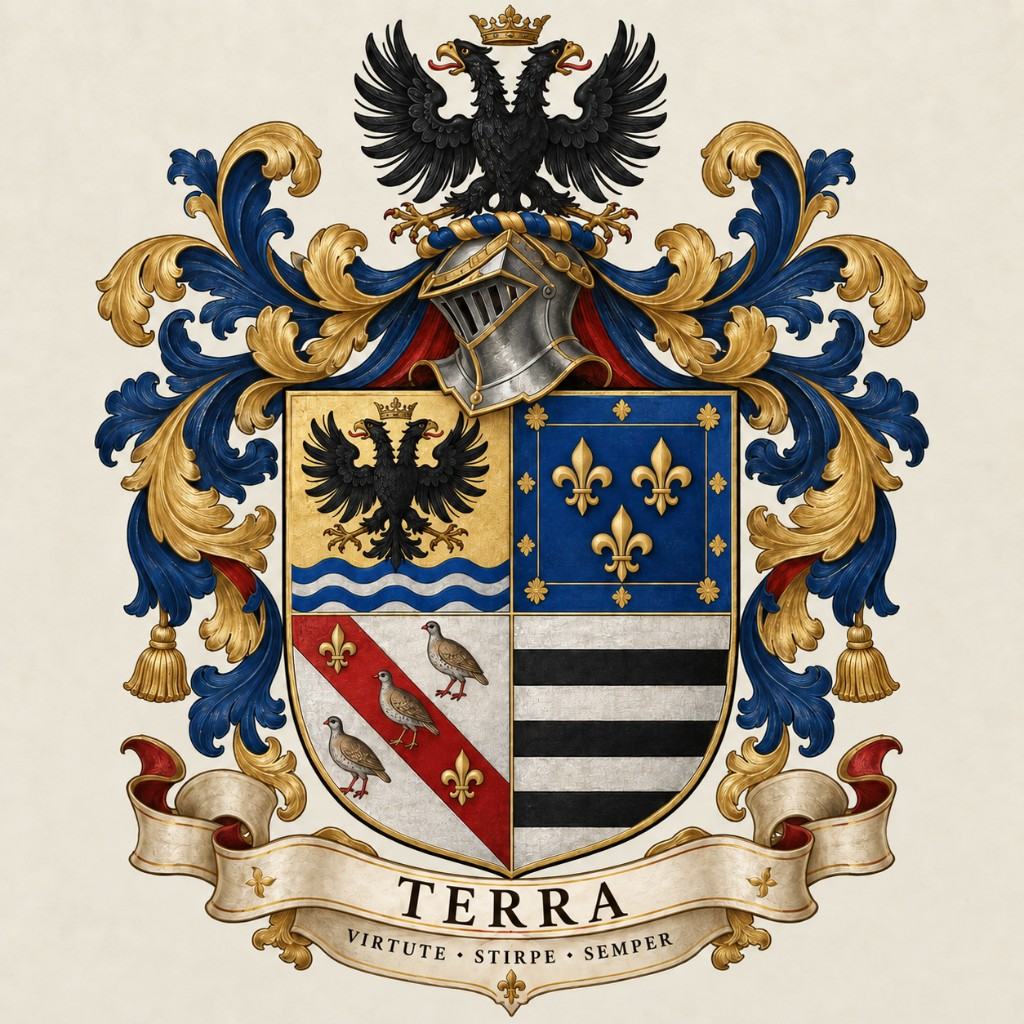
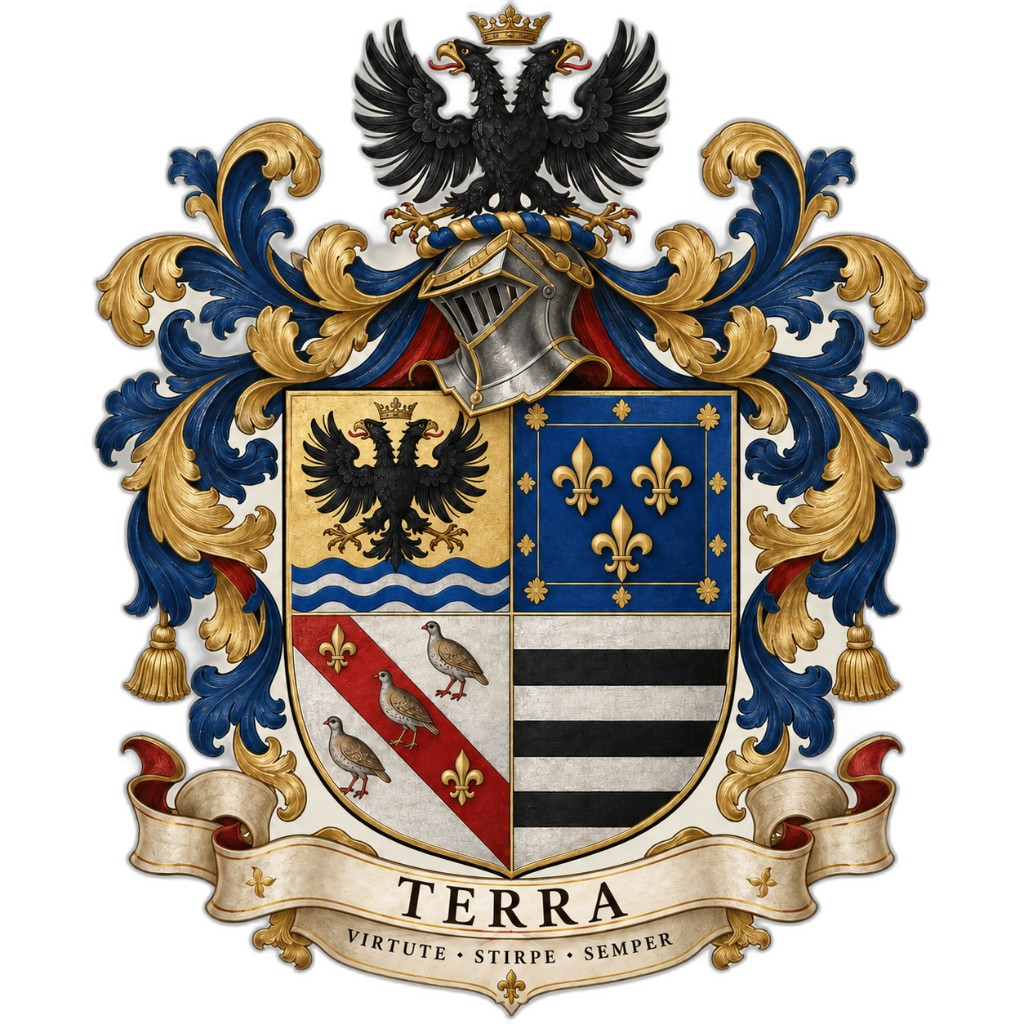
feat: adicionar versao transparente do brasao terra em png e webp

diff --git a/src/components/Hero.tsx b/src/components/Hero.tsx
@@ -1,4 +1,4 @@
-import { FIGURES, IDENTITY, ROLES } from '../content'
+import { FIGURES, IDENTITY } from '../content'
 import { CountUp } from './CountUp'
 import { Stack } from './Stack'
 
@@ -10,36 +10,22 @@ export function Hero() {
       <div className="shell hero-in">
         <div className="hero-cols">
           <div className="hero-left">
-            {/* Topo do Hero com Emblema e Foto Pessoal */}
-            <div className="hero-identity-header">
-              <div className="hero-emblem-badge" title="Emblema heráldico Terra">
+            <div className="byline">
+              <picture>
+                <source srcSet={IDENTITY.portraitWebp} type="image/webp" />
                 <img
-                  className="emblem-thumb"
-                  src={IDENTITY.emblem.src}
-                  alt={IDENTITY.emblem.alt}
-                  width={84}
-                  height={100}
+                  className="ph"
+                  src={IDENTITY.portrait}
+                  alt={IDENTITY.portraitAlt}
+                  width={76}
+                  height={76}
                   decoding="async"
                 />
-              </div>
-
-              <div className="byline">
-                <picture>
-                  <source srcSet={IDENTITY.portraitWebp} type="image/webp" />
-                  <img
-                    className="ph"
-                    src={IDENTITY.portrait}
-                    alt={IDENTITY.portraitAlt}
-                    width={76}
-                    height={76}
-                    decoding="async"
-                  />
-                </picture>
-                <div className="who">
-                  <b>{IDENTITY.name}</b>
-                  <span className="who-title">{IDENTITY.title}</span>
-                  <p className="eyebrow">{IDENTITY.eyebrow}</p>
-                </div>
+              </picture>
+              <div className="who">
+                <b>{IDENTITY.name}</b>
+                <span className="who-title">{IDENTITY.title}</span>
+                <p className="eyebrow">{IDENTITY.eyebrow}</p>
               </div>
             </div>
 
@@ -57,34 +43,15 @@ export function Hero() {
               <a className="hero-cta-btn primary" href="#grupo">
                 Conhecer o ecossistema →
               </a>
-              <a className="hero-cta-btn" href="#trajetoria">
-                Minha trajetória
-              </a>
               <a className="hero-cta-btn" href="#produtos">
                 Ventures & produtos
+              </a>
+              <a className="hero-cta-btn" href="#trajetoria">
+                Trajetória
               </a>
             </div>
 
             <p className="hero-who">{IDENTITY.who}</p>
-
-            <div className="roles">
-              {ROLES.map((item) => (
-                <div key={item.org}>
-                  <b>
-                    {item.href ? (
-                      <a href={item.href} target="_blank" rel="noopener">
-                        {item.org}
-                      </a>
-                    ) : (
-                      item.org
-                    )}
-                  </b>
-                  <span>
-                    <i>{item.role}.</i> {item.text}
-                  </span>
-                </div>
-              ))}
-            </div>
           </div>
 
           <Stack />

diff --git a/src/index.css b/src/index.css
@@ -217,34 +217,8 @@ section[id],header[id]{scroll-margin-top:60px}
   background:radial-gradient(760px 380px at 8% -6%,var(--ochre-soft),transparent 66%)}
 .hero-in{position:relative;padding:clamp(40px,5.5vw,72px) 0 clamp(40px,5vw,60px);display:grid;gap:clamp(30px,4vw,44px)}
 
-.hero-identity-header{
-  display:flex;align-items:center;gap:20px;margin-bottom:4px;
-}
-.hero-emblem-badge{
-  flex:0 0 auto;
-  display:grid;place-items:center;
-  padding:6px 10px;
-  border-radius:12px;
-  border:1px solid color-mix(in srgb, var(--gold) 35%, var(--rule));
-  background:color-mix(in srgb, var(--gold-soft) 40%, var(--raise));
-  box-shadow:0 4px 16px -4px var(--gold-glow);
-  transition:transform .2s ease, border-color .2s ease, box-shadow .2s ease;
-}
-.hero-emblem-badge:hover{
-  transform:translateY(-1px) scale(1.02);
-  border-color:var(--gold);
-  box-shadow:0 6px 20px -3px var(--gold-glow);
-}
-.emblem-thumb{
-  display:block;
-  width:clamp(65px, 6vw, 84px);
-  height:auto;
-  object-fit:contain;
-  filter:drop-shadow(0 2px 6px rgba(0,0,0,.25));
-}
-
 h1{font-size:clamp(2.3rem,6.8vw,4.2rem);line-height:1.02;font-weight:800;letter-spacing:-.03em}
-.hero-thesis{font-size:clamp(1.125rem,2.1vw,1.45rem);line-height:1.45;color:var(--ink);max-width:38ch;
+.hero-thesis{font-size:clamp(1.125rem,2.1vw,1.45rem);line-height:1.45;color:var(--ink);max-width:42ch;
   font-family:var(--body);font-weight:400}
 .hero-thesis em{font-style:italic;color:var(--ochre-ink)}
 .hero-cols{display:grid;grid-template-columns:1fr;gap:32px}
@@ -256,7 +230,7 @@ h1{font-size:clamp(2.3rem,6.8vw,4.2rem);line-height:1.02;font-weight:800;letter-
 .byline .ph{display:block;width:72px;height:72px;border-radius:50%;object-fit:cover;
   object-position:50% 22%;background:var(--sink)}
 .byline .who{display:grid;gap:3px;min-width:0}
-.byline .who b{font:700 1.1rem/1.2 var(--display);letter-spacing:-.022em;color:var(--ink)}
+.byline .who b{font:700 1.15rem/1.2 var(--display);letter-spacing:-.022em;color:var(--ink)}
 .byline .who-title{font:600 12.5px/1.35 var(--mono);color:var(--ochre)}
 
 .hero-ctas{display:flex;flex-wrap:wrap;gap:10px;padding-top:4px}
@@ -381,9 +355,6 @@ h1{font-size:clamp(2.3rem,6.8vw,4.2rem);line-height:1.02;font-weight:800;letter-
   .tbtn{width:28px;height:28px}
 
   .hero-in{padding:clamp(28px,5vw,40px) 0;gap:22px}
-  .hero-identity-header{gap:14px}
-  .hero-emblem-badge{padding:4px 8px}
-  .emblem-thumb{width:60px}
   h1{font-size:clamp(2rem,8.2vw,2.55rem);line-height:1.06;letter-spacing:-.035em}
   .hero-thesis{font-size:1.0625rem;line-height:1.45;max-width:100%}
   .hero-cols{gap:24px}

diff --git a/src/components/Legacy.tsx b/src/components/Legacy.tsx
@@ -16,6 +16,7 @@ export function Legacy() {
         <div className="legacy-emblem-wrap">
           <div className="legacy-emblem-halo" aria-hidden="true" />
           <picture>
+            <source srcSet={emblem.srcWebp} type="image/webp" />
             <source srcSet={emblem.src} type="image/png" />
             <img
               className="legacy-emblem-img"

diff --git a/src/content.ts b/src/content.ts
@@ -24,6 +24,7 @@ export const IDENTITY = {
   portraitAlt: 'Klaus Terra, executivo de tecnologia e founder',
   emblem: {
     src: '/images/brasao-terra.png',
+    srcWebp: '/images/brasao-terra.webp',
     srcJpeg: '/images/brasao-terra.jpg',
     srcSvg: '/images/brasao-terra.svg',
     alt: 'Brasão heráldico Terra — Virtute Stirpe Semper',
